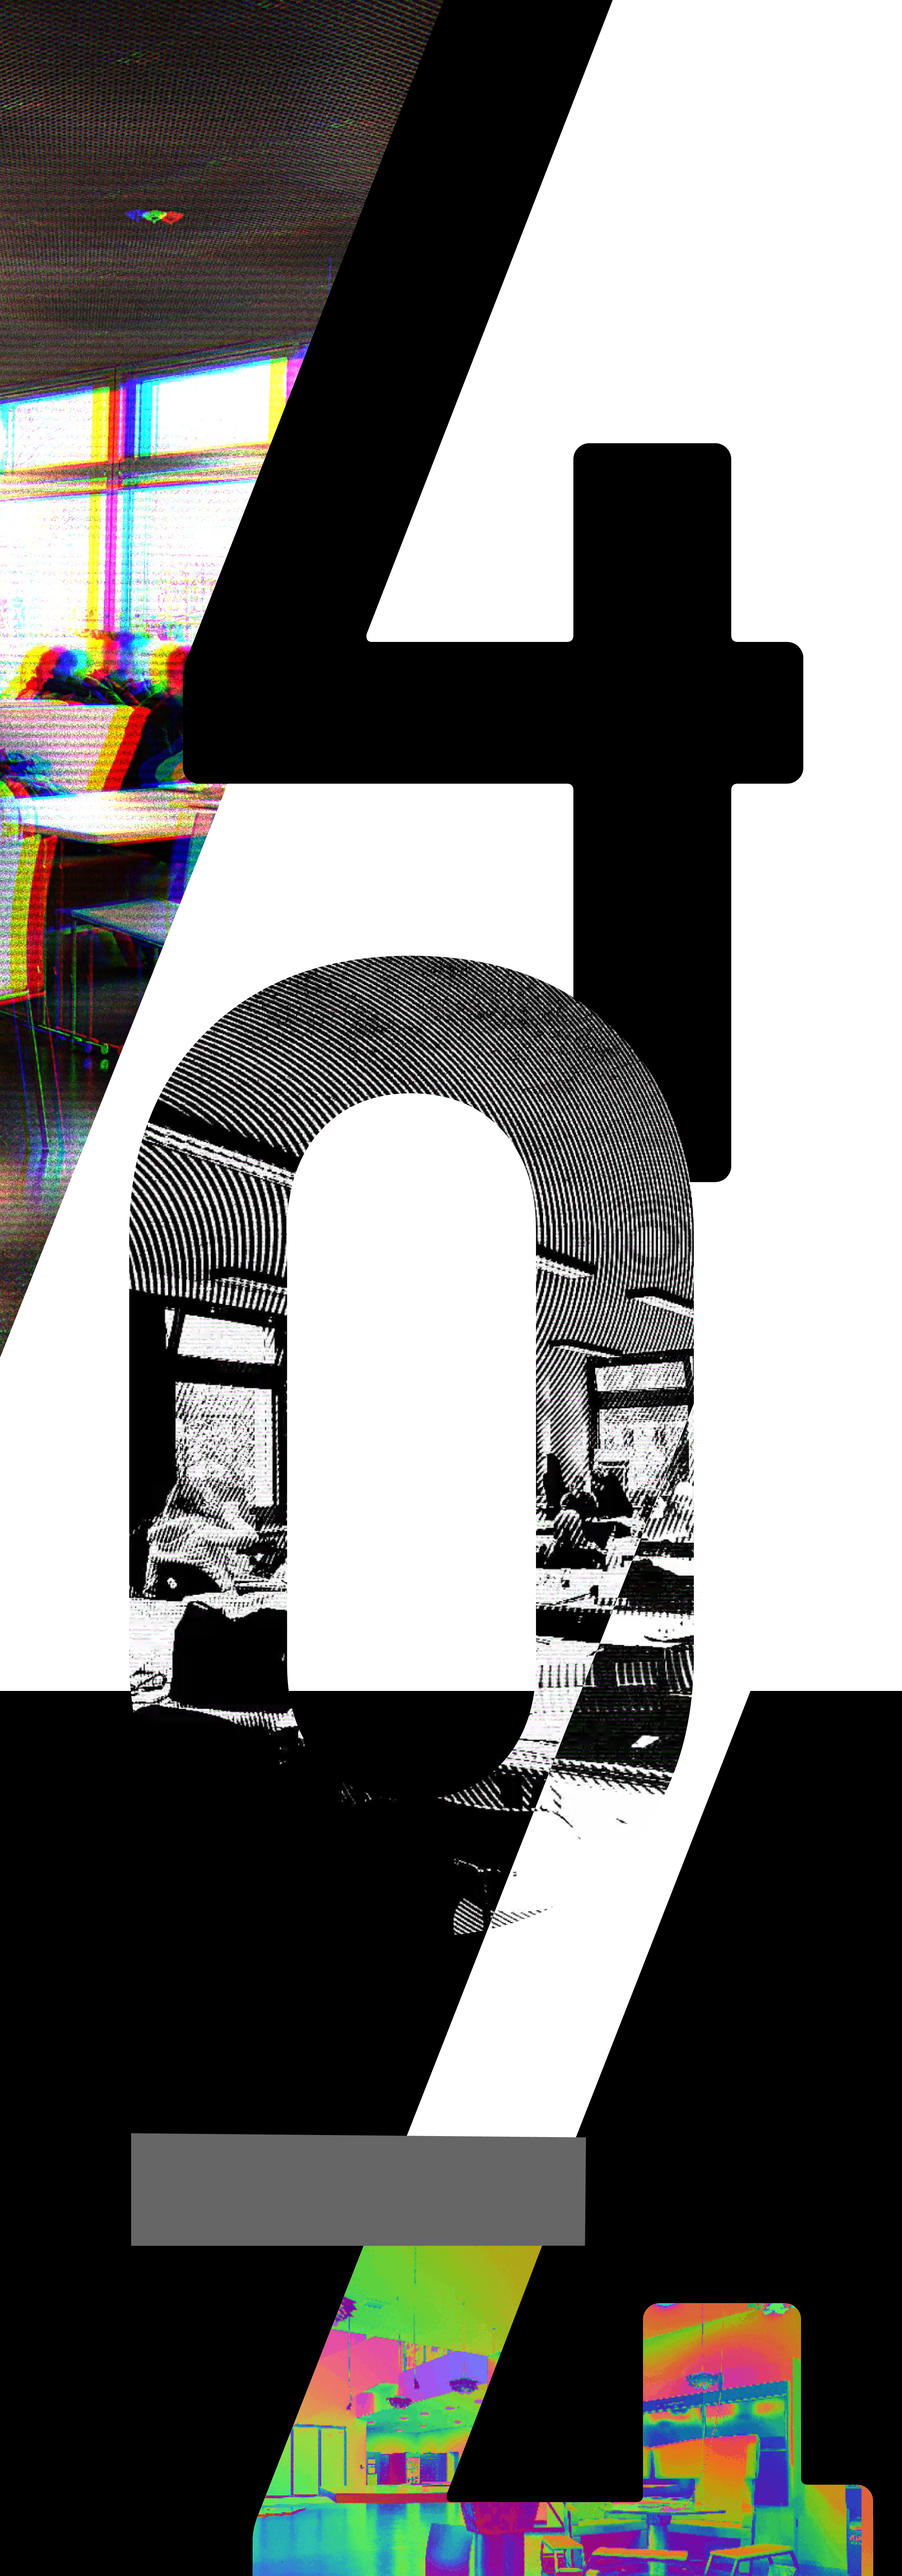
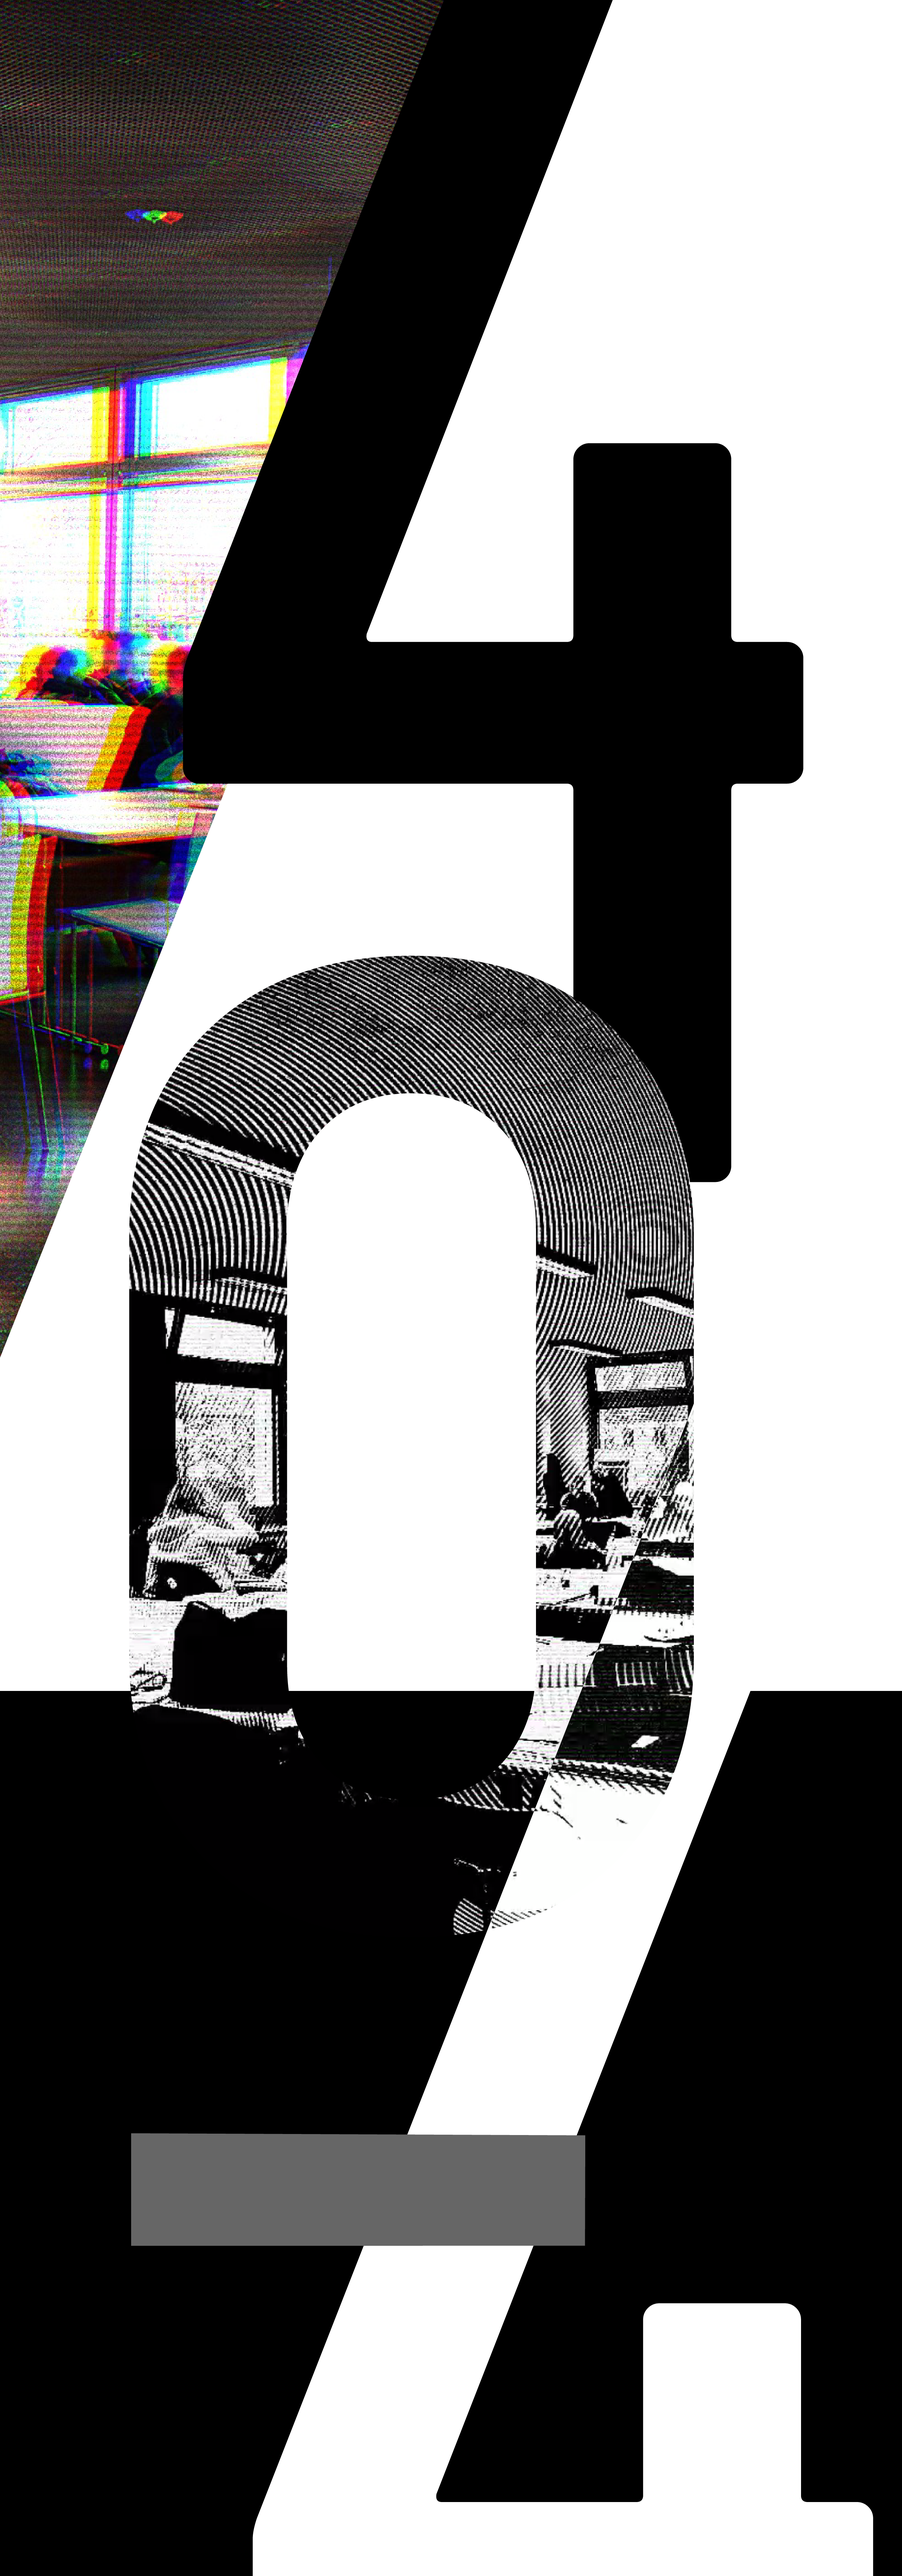
update 404-article

Changed region(s): [[0.2804, 0.8718, 0.9658, 1.0]]

diff --git a/pages/articles/arbeitsraum-404.vue b/pages/articles/arbeitsraum-404.vue
@@ -3,48 +3,47 @@
     <article>
       <div class="content">
         <header class="header">
-          <h1>Arbeitsraum: 404 Not Found</h1>
+          <!-- <h1>Arbeitsraum: 404 Not Found</h1> -->
         </header>
-        
-        <div class="text">
-            <img src="querlayout-3.png">
-            <img class="logogif" src="titel-404.gif">
-            <div class="divcontainer">
-                <div class="text--container">
-                    <p class="block" id="b1">
-                        Gerade befinde ich mich in einem Auslandssemester in Amsterdam und eigentlich ist die FH;P gedanklich so weit entfernt, dass es mich gerade selbst verwundert, dass ich mich mit ihr beschäftige. Eigentlich liegt es auch nur daran, dass ich gerade nicht da bin. Wenn man mal das eigene Nest verlässt, dann ist es bekanntlich möglich viele Dinge klarer zu sehen. <strong>Mir bot es die Möglichkeit einmal kennenzulernen, dass es auch anders geht.</strong> Was mir hier an der Hogeschool van Amsterdam in der vergangenen Zeit vor allem aufgefallen ist, ist enormer Raum.
-                    </p>
-                </div>
-                <div class="text--container">
-                    <p class="block" id="b2">
-                        Und ich meine das nicht nur, weil die Hochschule um ein Vielfaches größer ist, sondern mit Blick auf die <strong>Nutzung und Gestaltung des vorhandenen Raums</strong>. Wenn man sich hier in Amsterdam ein wenig umschaut, dann entdeckt man ein Café in der Bib, eine Kaffee-Bar im Foyer, die nicht nur guten Kaffee macht, sondern noch stylisch aussieht, und eine Menge an Arbeitsräumen.
-                    </p>
-                </div>
-                <div class="text--container">
-                    <p class="block" id="b3">
-                        Dabei meine ich nicht, wie bei uns, sterile Seminarräume mit minimalistisch anmutenden Stühlen, so bequem wie Gefängnispritschen, sondern frei zugängliche Räume für Still-, Einzel- und Gruppenarbeit. Mit guten Arbeitsplätzen, gemütlichen Sitzckn und vielleicht auch mal einem nutzbaren Bildschirm, sodass bei Gruppenarbeiten nicht alle auf einen kleinen Laptopbildschirm starren müssen.
-                    </p>
-                </div>
-                <div class="text--container">
-                    <p class="block" id="b4">
-                        <strong>Und wenn mir jetzt jemand zurufen würde, dass es das doch alles an unserer FH geben würde, so müsste ich dies leider nachdrücklich verneinen.</strong> Von welchen Räumen diese Person auch zu sprechen mag, es kann nicht unsere Bibliothek sein, die in guter deutscher Tradition natürlich kein Café beinhaltet – schließlich kommt man ja zum Arbeiten und nicht zum Vergnügen. Arbeit heißt hier natürlich, wie es sich so gehört, Stillarbeit. Sich dort mit einer Gruppe zum Arbeiten zu treffen kommt erst gar nicht in Frage. Die Einrichtung und das Raumkonzept sind dafür nicht ausgelegt.
-                    </p>
-                </div>
-                <div class="text--container">
-                </div>
-                <div class="text--container">
-                    <p class="block bigcaption" id="b5">
-                        Und dann gäbe es da ja auch noch die Mensa und die Cafeteria. Und wie man schon aus den Namen ableiten kann, sind beide nicht fürs Arbeiten geschaffen.
-                    </p>
-                </div>
-                <div class="text--container">
-                    <p class="block" id="b6">
-                        Und selbst an ein Mittagessen in angenehmer Atmosphäre ist nicht zu denken. Es musste eben funktional sein – es ist halt eine Mensa. Und dennoch wird die Mensa zum Arbeiten genutzt, denn sie ist der einzige Raum, der zentral und immer zugänglich ist. Dies ist nun jedoch zum Problem geworden, da man nun deutlich mehr Menschen durch den Umzug der FES in die Kiepenheuerallee täglich mit Essen versorgen muss.
-                    </p>
-                    <p class="block" id="b7">
-                        Da der knapp vorhandene Platz nun dringend benötigt wird gibt es jetzt Essen im Stechuhrentakt. Arbeiten will man in solch einer Atmosphäre außerdem eigentlich auch nicht. Ganz abgesehen von zurückgelassenem Geschirr oder Essensresten auf den Tischen und einem latenten Mangel an Steckdosen.
-                    </p>
-                </div>
+
+        <div class="divcontainer text">
+            <div class="bild-container">
+                <img class="logogif" src="/img/titel-404.gif">
+            </div>                
+            <div class="text--container">
+                <p class="block" id="b1">
+                    Gerade befinde ich mich in einem Auslandssemester in Amsterdam und eigentlich ist die FH;P gedanklich so weit entfernt, dass es mich gerade selbst verwundert, dass ich mich mit ihr beschäftige. Eigentlich liegt es auch nur daran, dass ich gerade nicht da bin. Wenn man mal das eigene Nest verlässt, dann ist es bekanntlich möglich viele Dinge klarer zu sehen. <strong>Mir bot es die Möglichkeit einmal kennenzulernen, dass es auch anders geht.</strong> Was mir hier an der Hogeschool van Amsterdam in der vergangenen Zeit vor allem aufgefallen ist, ist enormer Raum.
+                </p>
+            </div>
+            <div class="text--container">
+                <p class="block" id="b2">
+                    Und ich meine das nicht nur, weil die Hochschule um ein Vielfaches größer ist, sondern mit Blick auf die <strong>Nutzung und Gestaltung des vorhandenen Raums</strong>. Wenn man sich hier in Amsterdam ein wenig umschaut, dann entdeckt man ein Café in der Bib, eine Kaffee-Bar im Foyer, die nicht nur guten Kaffee macht, sondern noch stylisch aussieht, und eine Menge an Arbeitsräumen.
+                </p>
+            </div>
+            <div class="text--container">
+                <p class="block" id="b3">
+                    Dabei meine ich nicht, wie bei uns, sterile Seminarräume mit minimalistisch anmutenden Stühlen, so bequem wie Gefängnispritschen, sondern frei zugängliche Räume für Still-, Einzel- und Gruppenarbeit. Mit guten Arbeitsplätzen, gemütlichen Sitzckn und vielleicht auch mal einem nutzbaren Bildschirm, sodass bei Gruppenarbeiten nicht alle auf einen kleinen Laptopbildschirm starren müssen.
+                </p>
+            </div>
+            <div class="text--container">
+                <p class="block" id="b4">
+                    <strong>Und wenn mir jetzt jemand zurufen würde, dass es das doch alles an unserer FH geben würde, so müsste ich dies leider nachdrücklich verneinen.</strong> Von welchen Räumen diese Person auch zu sprechen mag, es kann nicht unsere Bibliothek sein, die in guter deutscher Tradition natürlich kein Café beinhaltet – schließlich kommt man ja zum Arbeiten und nicht zum Vergnügen. Arbeit heißt hier natürlich, wie es sich so gehört, Stillarbeit. Sich dort mit einer Gruppe zum Arbeiten zu treffen kommt erst gar nicht in Frage. Die Einrichtung und das Raumkonzept sind dafür nicht ausgelegt.
+                </p>
+            </div>
+            <div class="text--container">
+            </div>
+            <div class="text--container">
+                <p class="block bigcaption" id="b5">
+                    Und dann gäbe es da ja auch noch die Mensa und die Cafeteria. Und wie man schon aus den Namen ableiten kann, sind beide <strong>nicht fürs Arbeiten geschaffen.</strong>
+                </p>
+            </div>
+            <div class="text--container">
+                <p class="block" id="b6">
+                    Und selbst an ein Mittagessen in angenehmer Atmosphäre ist nicht zu denken. Es musste eben funktional sein – es ist halt eine Mensa. Und dennoch wird die Mensa zum Arbeiten genutzt, denn sie ist der einzige Raum, der zentral und immer zugänglich ist. Dies ist nun jedoch zum Problem geworden, da man nun deutlich mehr Menschen durch den Umzug der FES in die Kiepenheuerallee täglich mit Essen versorgen muss.
+                </p>
+                <p class="block" id="b7">
+                    Da der knapp vorhandene Platz nun dringend benötigt wird gibt es jetzt Essen im Stechuhrentakt. Arbeiten will man in solch einer Atmosphäre außerdem eigentlich auch nicht. Ganz abgesehen von zurückgelassenem Geschirr oder Essensresten auf den Tischen und einem latenten Mangel an Steckdosen.
+                </p>
             </div>
         </div>
       </div>
@@ -72,77 +71,85 @@ export default {
 }
 </script>
 
-
 <style lang="scss" scoped>
+    #tp-article .container .content {
+        width: 100%;
+        max-width: none;
+        padding: 0;
+    }
+    .container > article {
+        background-color: #000;
+        background-image: url(/img/querlayout-3.png);
+        background-repeat: no-repeat;
+        background-size: contain;
+        height: 370.950rem;
+    }
     .logogif {
-        position: absolute;
-        top: 20px;
-        right: 30px;
-        display: block;
+        transform: translate(110%,10%);
         width: 30%;
     }
     .divcontainer {
-        position: absolute;
-        top: 0;
-        left: 50%;
-        transform: translateX(-50%);
+        position: relative;
         width: 100%;
         height: 100%;
     }
+    .bild-container {
+        display: flex;
+        justify-content: center;
+        align-items: center;
+        height: 23vh;
+        width: 100%;
+    }
     .text--container {
-        position: relative;
-        height: 60%;
+        display: flex;
+        justify-content: center;
+        align-items: center;
+        height: 60vh;
+        width: 100%;
     }
     .block {
-        position: absolute;
         font-family: 'PT Serif', serif;
         color: #fff;
+        // background-color: red;
     }
-    .bigcaption {
+    #tp-article .container .content .text .bigcaption {
         font-family: Barlow, sans-serif;
+        font-size: 2rem;
+        line-height: 1.3;
     }
     #b1 {
-        left: 20%;
-        top: 40%;
-        width: 450px;
+        transform: translate(-60%,-20%);
+        width: 30%;
         line-height: 1.7;
     }
     #b2 {
-        width: 270px;
-        bottom: 3%;
-        left: 45%;
+        width: 19%;
+        transform: translate(20%,-26%);
         color: #000;
         line-height: 0.85;
     }
     #b3 {
-        width: 400px;
-        transform: rotate(270deg);
-        right: 13%;
-        bottom: 20%;
+        width: 22%;
+        transform: rotate(270deg) translate(20%,165%);
+        line-height: 1.4;
     }
     #b4 {
-        width: 350px;
-        left: 32%;
-        top: 50%;
+        width: 19%;
+        transform: translate(-43%,30%);
         color: #000;
     }
     #b5 {
-        left: 16%;
-        top: 40%;
-        width: 200px;
-        font-size: 35px;
+        transform: translate(-160%,0);
+        width: 300px;
     }
     #b6 {
-        left: 16%;
-        top: 50%;
-        width: 350px;
+        transform: translate(-35%,-37%);
+        width: 25%;
         line-height: 1.6;
     }
     #b7 {
-        left: 16%;
-        top: 50%;
-        width: 350px;
-        padding-left: 400px;
+        transform: translate(-30%,-67%);
+        width: 25%;
         line-height: 1.6;
     }
 </style>

diff --git a/layouts/article2.vue b/layouts/article2.vue
@@ -36,7 +36,7 @@ export default {
       this.setParallax('.' + this.$route.name)
       // this.setParagrafsTopFixed()
       this.setHeaderTopFixed()
-      this.setParagrafsXTransform()
+      // this.setParagrafsXTransform()
       this.homeIfScrolledBottom()
     })
   },
@@ -218,17 +218,17 @@ export default {
           }
 
           .text {
-            mix-blend-mode: multiply;
+            // mix-blend-mode: multiply;
             min-height: 100vh;
             // margin: 0 0 ((100/3) + vh);
             // padding: 0 0 (((100/3)*2) + vh);
-            margin: 0 0 101vh;
+            // margin: 0 0 101vh;
             position: relative;
             pointer-events: all;
 
             .text--container {
-              position: sticky;
-              top: 0;
+              // position: sticky;
+              // top: 0;
             }
 
             p {

diff --git a/components/Logo2.vue b/components/Logo2.vue
@@ -28,8 +28,7 @@ export default {
 @import '../assets/css/_vars';
 @import '../assets/css/_mixins';
 
-.logo-arbeitsraum-404 {
-    position: absolute;
+.logo-articles-arbeitsraum-404 {
 }
 </style>
 
